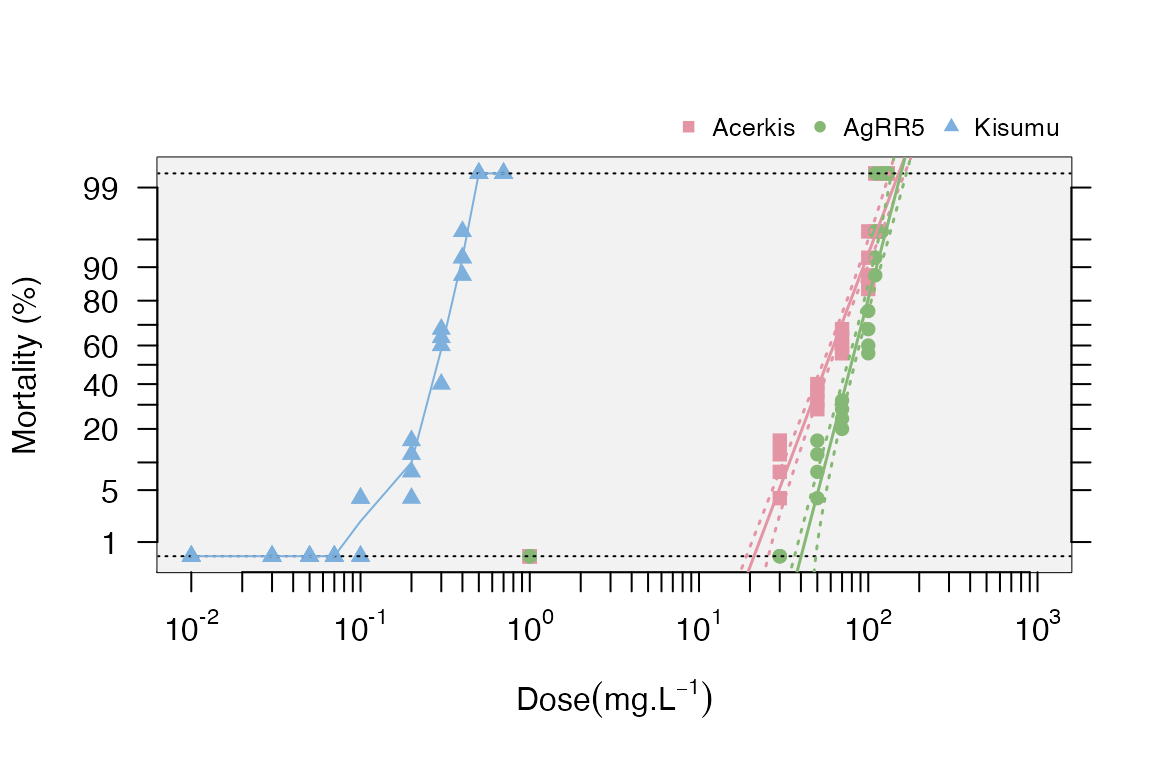
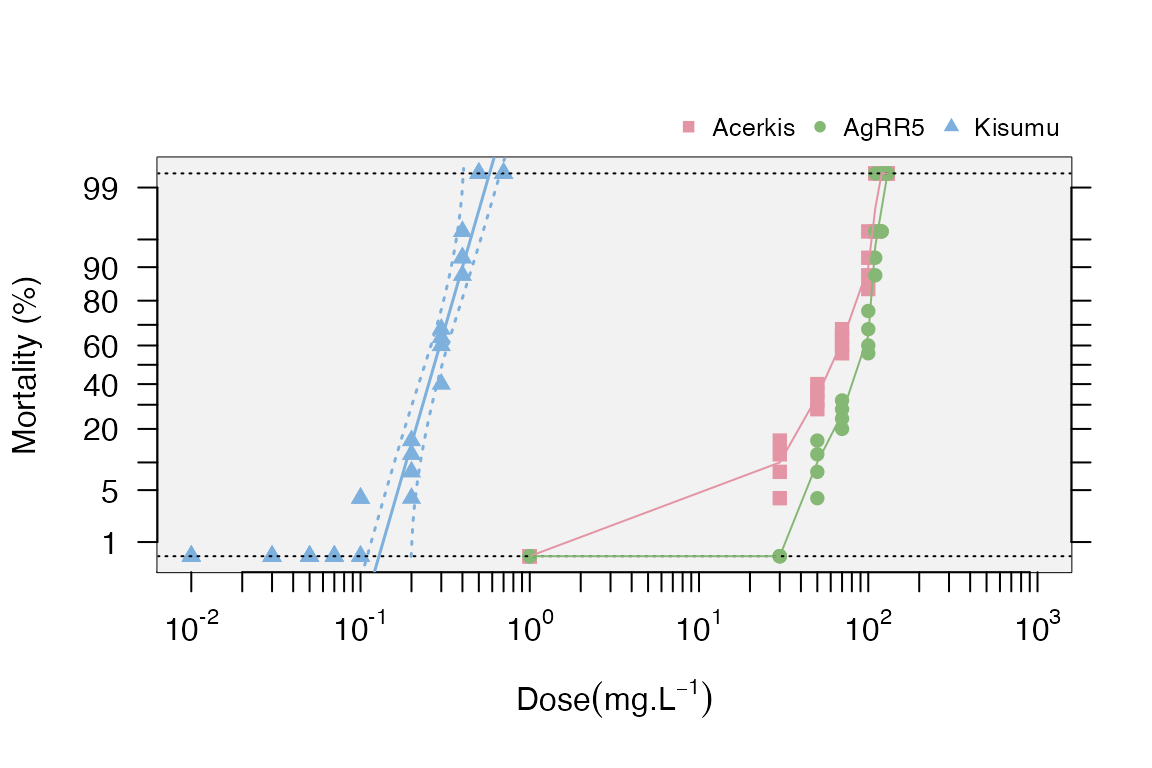
updates and bug fix

diff --git a/docs/articles/BioRssay.html b/docs/articles/BioRssay.html
@@ -161,22 +161,18 @@
 <code class="sourceCode R"><span class="va">data</span><span class="op">&lt;-</span><span class="va">dataT</span><span class="op">$</span><span class="va">tr.data</span> <span class="co">#probid transformed data</span>
 <span class="va">RR</span><span class="op">&lt;-</span><span class="fu"><a href="../reference/resist.ratio.html">resist.ratio</a></span><span class="op">(</span><span class="va">data</span><span class="op">)</span>
 <span class="va">RR</span>
-<span class="co">#&gt;                LD50     LD50min     LD50max      varLD50        LD95    LD95min</span>
-<span class="co">#&gt; DZOU    0.007360928 0.006136601 0.009107134 0.0004813749 0.064493518 0.04099287</span>
-<span class="co">#&gt; DZOU2   0.006156279 0.005043721 0.007720790 0.0003991162 0.057611139 0.03537616</span>
-<span class="co">#&gt; KIS-ref 0.001519579 0.001163367 0.001819190 0.0006597966 0.005011012 0.00414955</span>
-<span class="co">#&gt;             LD95max     varLD95    Slope   SlopeSE Intercept InterceptSE</span>
-<span class="co">#&gt; DZOU    0.125240023 0.012002361 1.745048 0.1537397  3.722305   0.3579163</span>
-<span class="co">#&gt; DZOU2   0.121382718 0.010222512 1.693651 0.1657277  3.744123   0.3906964</span>
-<span class="co">#&gt; KIS-ref 0.006666735 0.001109805 3.174155 0.3811593  8.945646   0.9848957</span>
-<span class="co">#&gt;                h          g    Chi(p)     rr50  rr50max  rr50min     rr95</span>
-<span class="co">#&gt; DZOU    1.905596 0.03971941 0.3606160 4.844057 5.641835 4.159087 12.87036</span>
-<span class="co">#&gt; DZOU2   2.326646 0.04899907 0.3568112 4.051305 4.692185 3.497959 11.49691</span>
-<span class="co">#&gt; KIS-ref 3.259672 0.07158818 0.5714766 1.000000 0.000000 0.000000  1.00000</span>
-<span class="co">#&gt;          rr95max   rr95min</span>
-<span class="co">#&gt; DZOU    14.99001 11.050435</span>
-<span class="co">#&gt; DZOU2   13.31562  9.926605</span>
-<span class="co">#&gt; KIS-ref  0.00000  0.000000</span></code></pre></div>
+<span class="co">#&gt;           LD25 LD25min LD25max LD25var   LD50 LD50min LD50max LD50var   LD95</span>
+<span class="co">#&gt; DZOU    0.0030  0.0024  0.0037       1 0.0074  0.0061  0.0091       1 0.0645</span>
+<span class="co">#&gt; DZOU2   0.0025  0.0018  0.0031       1 0.0062  0.0050  0.0077       1 0.0576</span>
+<span class="co">#&gt; KIS-ref 0.0009  0.0006  0.0012       1 0.0015  0.0012  0.0018       1 0.0050</span>
+<span class="co">#&gt;         LD95min LD95max LD95var Slope SlopeSE Intercept InterceptSE    h      g</span>
+<span class="co">#&gt; DZOU     0.0410  0.1252    1.03  1.75  0.1537      3.72      0.3579 1.91 0.0397</span>
+<span class="co">#&gt; DZOU2    0.0354  0.1214    1.02  1.69  0.1657      3.74      0.3907 2.33 0.0490</span>
+<span class="co">#&gt; KIS-ref  0.0041  0.0067    1.00  3.17  0.3812      8.95      0.9849 3.26 0.0716</span>
+<span class="co">#&gt;         Chi(p) rr25 rr25max rr25min rr50 rr50max rr50min rr95 rr95max rr95min</span>
+<span class="co">#&gt; DZOU    0.3606 3.24    1931  0.0055 4.84    2877  0.0082   13    7990  0.0207</span>
+<span class="co">#&gt; DZOU2   0.3568 2.64    1572  0.0044 4.05    2405  0.0068   11    7090  0.0186</span>
+<span class="co">#&gt; KIS-ref 0.5715 1.00     597  0.0017 1.00     594  0.0017    1     596  0.0017</span></code></pre></div>
 <p><em>Note that we did not specify the reference strain here as it is already labeled in the data</em></p>
 <p><em>For each strain, you have first the LD50 and LD95 and their upper and lower limits (defaults is 95% CI), then the slope and intercept of the regression (with their standard error), the heterogeneity (h) and the g factor (“With almost all good sets of data, g will be substantially smaller than 1.0 and seldom greater than 0.4.” Finney, 1971).</em></p>
 <p><em>The result of the chi test (Chi(p)) is then indicated to judge whether the data follow a linear regression: here all the p-values are over 0.05 so the fits are acceptable. Finally the resistance ratios are indicated for LD50 and LD95 (RR50 and RR95), as well as their upper and lower limits.</em></p>
@@ -239,22 +235,22 @@
 <p><img src="BioRssay_files/figure-html/unnamed-chunk-10-1.png" width="576"></p>
 <div class="sourceCode" id="cb12"><pre class="downlit sourceCode r">
 <code class="sourceCode R"><span class="fu"><a href="https://rdrr.io/r/utils/head.html">head</a></span><span class="op">(</span><span class="va">RR.b</span><span class="op">)</span>
-<span class="co">#&gt;               LD50    LD50min    LD50max     varLD50       LD95    LD95min</span>
-<span class="co">#&gt; Acerkis 56.5098989 53.2114813 59.6792554 0.001786642 107.634086 100.302691</span>
-<span class="co">#&gt; AgRR5   79.1108266 74.7149834 83.1800402 0.001573892 123.408708 115.649404</span>
-<span class="co">#&gt; Kisumu   0.2726414  0.2587263  0.2860428 0.022377514   0.446101   0.415979</span>
-<span class="co">#&gt;             LD95max     varLD95    Slope   SlopeSE  Intercept InterceptSE</span>
-<span class="co">#&gt; Acerkis 117.1146160 0.002410525 5.878145 0.3656493 -10.299242   0.6734320</span>
-<span class="co">#&gt; AgRR5   134.1446941 0.002449533 8.517708 0.6962015 -16.168620   1.3613946</span>
-<span class="co">#&gt; Kisumu    0.4878805 0.144419248 7.691933 0.6055473   4.341389   0.3281966</span>
-<span class="co">#&gt;                h          g       Chi(p)     rr50  rr50max  rr50min     rr95</span>
-<span class="co">#&gt; Acerkis 1.000000 0.01486432 9.995387e-01 207.2682 418.0336 102.7671 241.2774</span>
-<span class="co">#&gt; AgRR5   1.612638 0.02786453 9.609371e-01 290.1644 583.4161 144.3144 276.6385</span>
-<span class="co">#&gt; Kisumu  1.000000 0.02380791 7.672306e-24   1.0000   0.0000   0.0000   1.0000</span>
-<span class="co">#&gt;          rr95max  rr95min</span>
-<span class="co">#&gt; Acerkis 486.6258 119.6294</span>
-<span class="co">#&gt; AgRR5   556.2204 137.5873</span>
-<span class="co">#&gt; Kisumu    0.0000   0.0000</span></code></pre></div>
+<span class="co">#&gt;            LD25 LD25min LD25max LD25var    LD50 LD50min LD50max LD50var</span>
+<span class="co">#&gt; Acerkis 43.0000 40.0000 47.0000    1.01 57.0000 53.0000  60.000    1.00</span>
+<span class="co">#&gt; AgRR5   66.0000 61.0000 70.0000    1.01 79.0000 75.0000  83.000    1.00</span>
+<span class="co">#&gt; Kisumu   0.2228  0.2069  0.2365    1.07  0.2726  0.2587   0.286    1.05</span>
+<span class="co">#&gt;             LD95 LD95min  LD95max LD95var Slope SlopeSE Intercept InterceptSE</span>
+<span class="co">#&gt; Acerkis 108.0000 100.000 117.0000    1.01  5.88  0.3656  -10.2992      0.6734</span>
+<span class="co">#&gt; AgRR5   123.0000 116.000 134.0000    1.01  8.52  0.6962  -16.1686      1.3600</span>
+<span class="co">#&gt; Kisumu    0.4461   0.416   0.4879    1.39  7.69  0.6055    4.3400      0.3282</span>
+<span class="co">#&gt;            h      g Chi(p) rr25 rr25max rr25min rr50 rr50max rr50min rr95</span>
+<span class="co">#&gt; Acerkis 1.00 0.0149 0.9995  195  130322  0.2910  207  134157  0.3202  241</span>
+<span class="co">#&gt; AgRR5   1.61 0.0279 0.9609  296  197599  0.4431  290  187667  0.4486  277</span>
+<span class="co">#&gt; Kisumu  1.00 0.0238 0.0000    1     736  0.0014    1     699  0.0014    1</span>
+<span class="co">#&gt;         rr95max rr95min</span>
+<span class="co">#&gt; Acerkis  262409  0.2218</span>
+<span class="co">#&gt; AgRR5    300907  0.2543</span>
+<span class="co">#&gt; Kisumu     1876  0.0005</span></code></pre></div>
 <p><em>Note that we have enabled the arguments “plot=” with “plot.conf=” and “test.validity=”. When the log-dose-response is not linear for a strain (Chi-square p-value &lt; 0.05), it will be plotted without forcing linearity as for ,“Kisumu” strain in this example.</em></p>
 <div class="sourceCode" id="cb13"><pre class="downlit sourceCode r">
 <code class="sourceCode R"><span class="co">#To then test the difference in dose-mortality response between the strains</span>
@@ -293,7 +289,7 @@
 
 
       <footer><div class="copyright">
-  <p>Developed by Piyal Karunarathne, Pascal Milesi.</p>
+  <p>Developed by Piyal Karunarathne, Pascal Milesi, Pierrick Labbé.</p>
 </div>
 
 <div class="pkgdown">

diff --git a/docs/reference/resist.ratio.html b/docs/reference/resist.ratio.html
@@ -118,6 +118,7 @@
     <pre class="usage"><span class='fu'>resist.ratio</span><span class='op'>(</span>
   <span class='va'>data</span>,
   conf.level <span class='op'>=</span> <span class='fl'>0.95</span>,
+  LD.value <span class='op'>=</span> <span class='fu'><a href='https://rdrr.io/r/base/c.html'>c</a></span><span class='op'>(</span><span class='fl'>25</span>, <span class='fl'>50</span>, <span class='fl'>95</span><span class='op'>)</span>,
   ref.strain <span class='op'>=</span> <span class='cn'>NULL</span>,
   plot <span class='op'>=</span> <span class='cn'>FALSE</span>,
   plot.conf <span class='op'>=</span> <span class='cn'>TRUE</span>,
@@ -134,7 +135,11 @@
     </tr>
     <tr>
       <th>conf.level</th>
-      <td><p>numerical. level for confidence intervals of the LD50 and LD95 (default 0.95)</p></td>
+      <td><p>numerical. level for confidence intervals to be applied to the models (default 0.95)</p></td>
+    </tr>
+    <tr>
+      <th>LD.value</th>
+      <td><p>numerical. Level of lethal dose to be tested. default=c(25,50,95)</p></td>
     </tr>
     <tr>
       <th>ref.strain</th>
@@ -171,28 +176,27 @@
 <p>HommelG(1988). A stage wise rejective multiple test procedure based on a modified Bonferroni test. Biometrika 75, 383-6.</p>
 <p>Johnson RM, Dahlgren L, Siegfried BD,EllisMD(2013). Acaricide,fungicide and druginteractions in honeybees (Apis mellifera). PLoSONE8(1): e54092.</p>
 <p>Robertson, J. L., and H.K. Preisler.1992. Pesticide bioassays with arthropods. CRC, Boca Raton, FL.</p>
+    <h2 class="hasAnchor" id="author"><a class="anchor" href="#author"></a>Author</h2>
+
+    <p>Pascal Milesi, Piyal Karunarathne, Pierrick Labbé</p>
 
     <h2 class="hasAnchor" id="examples"><a class="anchor" href="#examples"></a>Examples</h2>
     <pre class="examples"><div class='input'><span class='fu'><a href='https://rdrr.io/r/utils/data.html'>data</a></span><span class='op'>(</span><span class='va'>bioassay</span><span class='op'>)</span>
 <span class='va'>transd</span><span class='op'>&lt;-</span><span class='fu'><a href='probit.trans.html'>probit.trans</a></span><span class='op'>(</span><span class='va'>bioassay</span><span class='op'>$</span><span class='va'>assay2</span><span class='op'>)</span>
 <span class='va'>data</span><span class='op'>&lt;-</span><span class='va'>transd</span><span class='op'>$</span><span class='va'>tr.data</span>
 <span class='fu'>resist.ratio</span><span class='op'>(</span><span class='va'>data</span>,plot<span class='op'>=</span><span class='cn'>TRUE</span><span class='op'>)</span>
-</div><div class='img'><img src='resist.ratio-1.png' alt='' width='700' height='433' /></div><div class='output co'>#&gt;                LD50     LD50min     LD50max      varLD50        LD95    LD95min
-#&gt; DZOU    0.007360928 0.006136601 0.009107134 0.0004813749 0.064493518 0.04099287
-#&gt; DZOU2   0.006156279 0.005043721 0.007720790 0.0003991162 0.057611139 0.03537616
-#&gt; KIS-ref 0.001519579 0.001163367 0.001819190 0.0006597966 0.005011012 0.00414955
-#&gt;             LD95max     varLD95    Slope   SlopeSE Intercept InterceptSE
-#&gt; DZOU    0.125240023 0.012002361 1.745048 0.1537397  3.722305   0.3579163
-#&gt; DZOU2   0.121382718 0.010222512 1.693651 0.1657277  3.744123   0.3906964
-#&gt; KIS-ref 0.006666735 0.001109805 3.174155 0.3811593  8.945646   0.9848957
-#&gt;                h          g    Chi(p)     rr50  rr50max  rr50min     rr95
-#&gt; DZOU    1.905596 0.03971941 0.3606160 4.844057 5.641835 4.159087 12.87036
-#&gt; DZOU2   2.326646 0.04899907 0.3568112 4.051305 4.692185 3.497959 11.49691
-#&gt; KIS-ref 3.259672 0.07158818 0.5714766 1.000000 0.000000 0.000000  1.00000
-#&gt;          rr95max   rr95min
-#&gt; DZOU    14.99001 11.050435
-#&gt; DZOU2   13.31562  9.926605
-#&gt; KIS-ref  0.00000  0.000000</div><div class='input'>
+</div><div class='img'><img src='resist.ratio-1.png' alt='' width='700' height='433' /></div><div class='output co'>#&gt;           LD25 LD25min LD25max LD25var   LD50 LD50min LD50max LD50var   LD95
+#&gt; DZOU    0.0030  0.0024  0.0037       1 0.0074  0.0061  0.0091       1 0.0645
+#&gt; DZOU2   0.0025  0.0018  0.0031       1 0.0062  0.0050  0.0077       1 0.0576
+#&gt; KIS-ref 0.0009  0.0006  0.0012       1 0.0015  0.0012  0.0018       1 0.0050
+#&gt;         LD95min LD95max LD95var Slope SlopeSE Intercept InterceptSE    h      g
+#&gt; DZOU     0.0410  0.1252    1.03  1.75  0.1537      3.72      0.3579 1.91 0.0397
+#&gt; DZOU2    0.0354  0.1214    1.02  1.69  0.1657      3.74      0.3907 2.33 0.0490
+#&gt; KIS-ref  0.0041  0.0067    1.00  3.17  0.3812      8.95      0.9849 3.26 0.0716
+#&gt;         Chi(p) rr25 rr25max rr25min rr50 rr50max rr50min rr95 rr95max rr95min
+#&gt; DZOU    0.3606 3.24    1931  0.0055 4.84    2877  0.0082   13    7990  0.0207
+#&gt; DZOU2   0.3568 2.64    1572  0.0044 4.05    2405  0.0068   11    7090  0.0186
+#&gt; KIS-ref 0.5715 1.00     597  0.0017 1.00     594  0.0017    1     596  0.0017</div><div class='input'>
 </div></pre>
   </div>
   <div class="col-md-3 hidden-xs hidden-sm" id="pkgdown-sidebar">
@@ -205,7 +209,7 @@
 
       <footer>
       <div class="copyright">
-  <p>Developed by Piyal Karunarathne, Pascal Milesi.</p>
+  <p>Developed by Piyal Karunarathne, Pascal Milesi, Pierrick Labbé.</p>
 </div>
 
 <div class="pkgdown">

diff --git a/docs/reference/bioassay.html b/docs/reference/bioassay.html
@@ -125,13 +125,13 @@
     <h2 class="hasAnchor" id="examples"><a class="anchor" href="#examples"></a>Examples</h2>
     <pre class="examples"><div class='input'><span class='fu'><a href='https://rdrr.io/r/utils/data.html'>data</a></span><span class='op'>(</span><span class='va'>bioassay</span><span class='op'>)</span>
 <span class='fu'><a href='https://rdrr.io/r/utils/head.html'>head</a></span><span class='op'>(</span><span class='va'>bioassay</span><span class='op'>$</span><span class='va'>assay1</span><span class='op'>)</span>
-</div><div class='output co'>#&gt;   insecticide souche  dose tot morts replicate     date
-#&gt; 1    temephos    KIS 0.000 100    10         1 26/01/11
-#&gt; 2    temephos    KIS 0.002  97    47         1 26/01/11
-#&gt; 3    temephos    KIS 0.003  96    68         1 26/01/11
-#&gt; 4    temephos    KIS 0.004  98    89         1 26/01/11
-#&gt; 5    temephos    KIS 0.005  95    90         1 26/01/11
-#&gt; 6    temephos    KIS 0.007  99    97         1 26/01/11</div></pre>
+</div><div class='output co'>#&gt;   insecticide strain  dose total dead replicate     date
+#&gt; 1    temephos    KIS 0.000   100   10         1 26/01/11
+#&gt; 2    temephos    KIS 0.002    97   47         1 26/01/11
+#&gt; 3    temephos    KIS 0.003    96   68         1 26/01/11
+#&gt; 4    temephos    KIS 0.004    98   89         1 26/01/11
+#&gt; 5    temephos    KIS 0.005    95   90         1 26/01/11
+#&gt; 6    temephos    KIS 0.007    99   97         1 26/01/11</div></pre>
   </div>
   <div class="col-md-3 hidden-xs hidden-sm" id="pkgdown-sidebar">
     <nav id="toc" data-toggle="toc" class="sticky-top">
@@ -143,7 +143,7 @@
 
       <footer>
       <div class="copyright">
-  <p>Developed by Piyal Karunarathne, Pascal Milesi.</p>
+  <p>Developed by Piyal Karunarathne, Pascal Milesi, Pierrick Labbé.</p>
 </div>
 
 <div class="pkgdown">

diff --git a/docs/reference/model.signif.html b/docs/reference/model.signif.html
@@ -134,6 +134,9 @@
     <p>A global LRT test assesses a strain’s effect, by comparing two models, one with and one without this effect (i.e. comparing a model with several strains to a model where all the data originate from a single strain).
 If there are more than two strains, pairwise tests are computed, and p-values of significance are assessed using sequential Bonferroni correction (Hommel, 1988) to account for multiple testing.</p>
 <p>Warning: We strongly encourage users to not use this function when the dose-mortality response for at least one strain significantly deviates from linearity (see resist.ratio() function for more details): in such cases the test cannot be interpreted.</p>
+    <h2 class="hasAnchor" id="author"><a class="anchor" href="#author"></a>Author</h2>
+
+    <p>Pascal Milesi, Piyal Karunarathne, Pierrick Labbé</p>
 
     <h2 class="hasAnchor" id="examples"><a class="anchor" href="#examples"></a>Examples</h2>
     <pre class="examples"><div class='input'><span class='fu'><a href='https://rdrr.io/r/utils/data.html'>data</a></span><span class='op'>(</span><span class='va'>bioassay</span><span class='op'>)</span>
@@ -158,7 +161,7 @@ If there are more than two strains, pairwise tests are computed, and p-values of
 
       <footer>
       <div class="copyright">
-  <p>Developed by Piyal Karunarathne, Pascal Milesi.</p>
+  <p>Developed by Piyal Karunarathne, Pascal Milesi, Pierrick Labbé.</p>
 </div>
 
 <div class="pkgdown">

diff --git a/docs/reference/mort.plot.html b/docs/reference/mort.plot.html
@@ -120,6 +120,7 @@
   strains <span class='op'>=</span> <span class='cn'>NULL</span>,
   plot.conf <span class='op'>=</span> <span class='cn'>TRUE</span>,
   conf.level <span class='op'>=</span> <span class='fl'>0.95</span>,
+  LD.value <span class='op'>=</span> <span class='fu'><a href='https://rdrr.io/r/base/c.html'>c</a></span><span class='op'>(</span><span class='fl'>25</span>, <span class='fl'>50</span>, <span class='fl'>95</span><span class='op'>)</span>,
   test.validity <span class='op'>=</span> <span class='cn'>TRUE</span>,
   <span class='va'>...</span>
 <span class='op'>)</span></pre>
@@ -142,6 +143,10 @@
     <tr>
       <th>conf.level</th>
       <td><p>numerical. The confidence interval to be plotted</p></td>
+    </tr>
+    <tr>
+      <th>LD.value</th>
+      <td><p>numerical. Level of lethal dose to be tested. default=c(25,50,95)</p></td>
     </tr>
     <tr>
       <th>test.validity</th>
@@ -179,7 +184,7 @@
 
       <footer>
       <div class="copyright">
-  <p>Developed by Piyal Karunarathne, Pascal Milesi.</p>
+  <p>Developed by Piyal Karunarathne, Pascal Milesi, Pierrick Labbé.</p>
 </div>
 
 <div class="pkgdown">

diff --git a/docs/index.html b/docs/index.html
@@ -89,6 +89,7 @@
 <ul class="list-unstyled">
 <li>Piyal Karunarathne <br><small class="roles"> Author, maintainer </small> <a href="https://orcid.org/0000-0002-1934-145X" target="orcid.widget" aria-label="ORCID"><span class="fab fa-orcid orcid" aria-hidden="true"></span></a> </li>
 <li>Pascal Milesi <br><small class="roles"> Author </small> <a href="https://orcid.org/0000-0001-8580-4291" target="orcid.widget" aria-label="ORCID"><span class="fab fa-orcid orcid" aria-hidden="true"></span></a> </li>
+<li>Pierrick Labbé <br><small class="roles"> Author </small> <a href="https://orcid.org/0000-0003-0806-1919" target="orcid.widget" aria-label="ORCID"><span class="fab fa-orcid orcid" aria-hidden="true"></span></a> </li>
 </ul>
 </div>
 
@@ -105,7 +106,7 @@
 
 
       <footer><div class="copyright">
-  <p>Developed by Piyal Karunarathne, Pascal Milesi.</p>
+  <p>Developed by Piyal Karunarathne, Pascal Milesi, Pierrick Labbé.</p>
 </div>
 
 <div class="pkgdown">

diff --git a/docs/authors.html b/docs/authors.html
@@ -117,6 +117,10 @@
         <p><strong>Pascal Milesi</strong>. Author. <a href='https://orcid.org/0000-0001-8580-4291' target='orcid.widget' aria-label='ORCID'><span class='fab fa-orcid orcid' aria-hidden='true'></span></a>
         </p>
       </li>
+      <li>
+        <p><strong>Pierrick Labbé</strong>. Author. <a href='https://orcid.org/0000-0003-0806-1919' target='orcid.widget' aria-label='ORCID'><span class='fab fa-orcid orcid' aria-hidden='true'></span></a>
+        </p>
+      </li>
     </ul>
 
   </div>
@@ -127,7 +131,7 @@
 
       <footer>
       <div class="copyright">
-  <p>Developed by Piyal Karunarathne, Pascal Milesi.</p>
+  <p>Developed by Piyal Karunarathne, Pascal Milesi, Pierrick Labbé.</p>
 </div>
 
 <div class="pkgdown">

diff --git a/docs/404.html b/docs/404.html
@@ -124,7 +124,7 @@ Content not found. Please use links in the navbar.
 
       <footer>
       <div class="copyright">
-  <p>Developed by Piyal Karunarathne, Pascal Milesi.</p>
+  <p>Developed by Piyal Karunarathne, Pascal Milesi, Pierrick Labbé.</p>
 </div>
 
 <div class="pkgdown">

diff --git a/docs/articles/index.html b/docs/articles/index.html
@@ -123,7 +123,7 @@
 
       <footer>
       <div class="copyright">
-  <p>Developed by Piyal Karunarathne, Pascal Milesi.</p>
+  <p>Developed by Piyal Karunarathne, Pascal Milesi, Pierrick Labbé.</p>
 </div>
 
 <div class="pkgdown">

diff --git a/docs/reference/index.html b/docs/reference/index.html
@@ -173,7 +173,7 @@
 
       <footer>
       <div class="copyright">
-  <p>Developed by Piyal Karunarathne, Pascal Milesi.</p>
+  <p>Developed by Piyal Karunarathne, Pascal Milesi, Pierrick Labbé.</p>
 </div>
 
 <div class="pkgdown">

diff --git a/docs/reference/probit.trans.html b/docs/reference/probit.trans.html
@@ -155,7 +155,7 @@
 
       <footer>
       <div class="copyright">
-  <p>Developed by Piyal Karunarathne, Pascal Milesi.</p>
+  <p>Developed by Piyal Karunarathne, Pascal Milesi, Pierrick Labbé.</p>
 </div>
 
 <div class="pkgdown">
